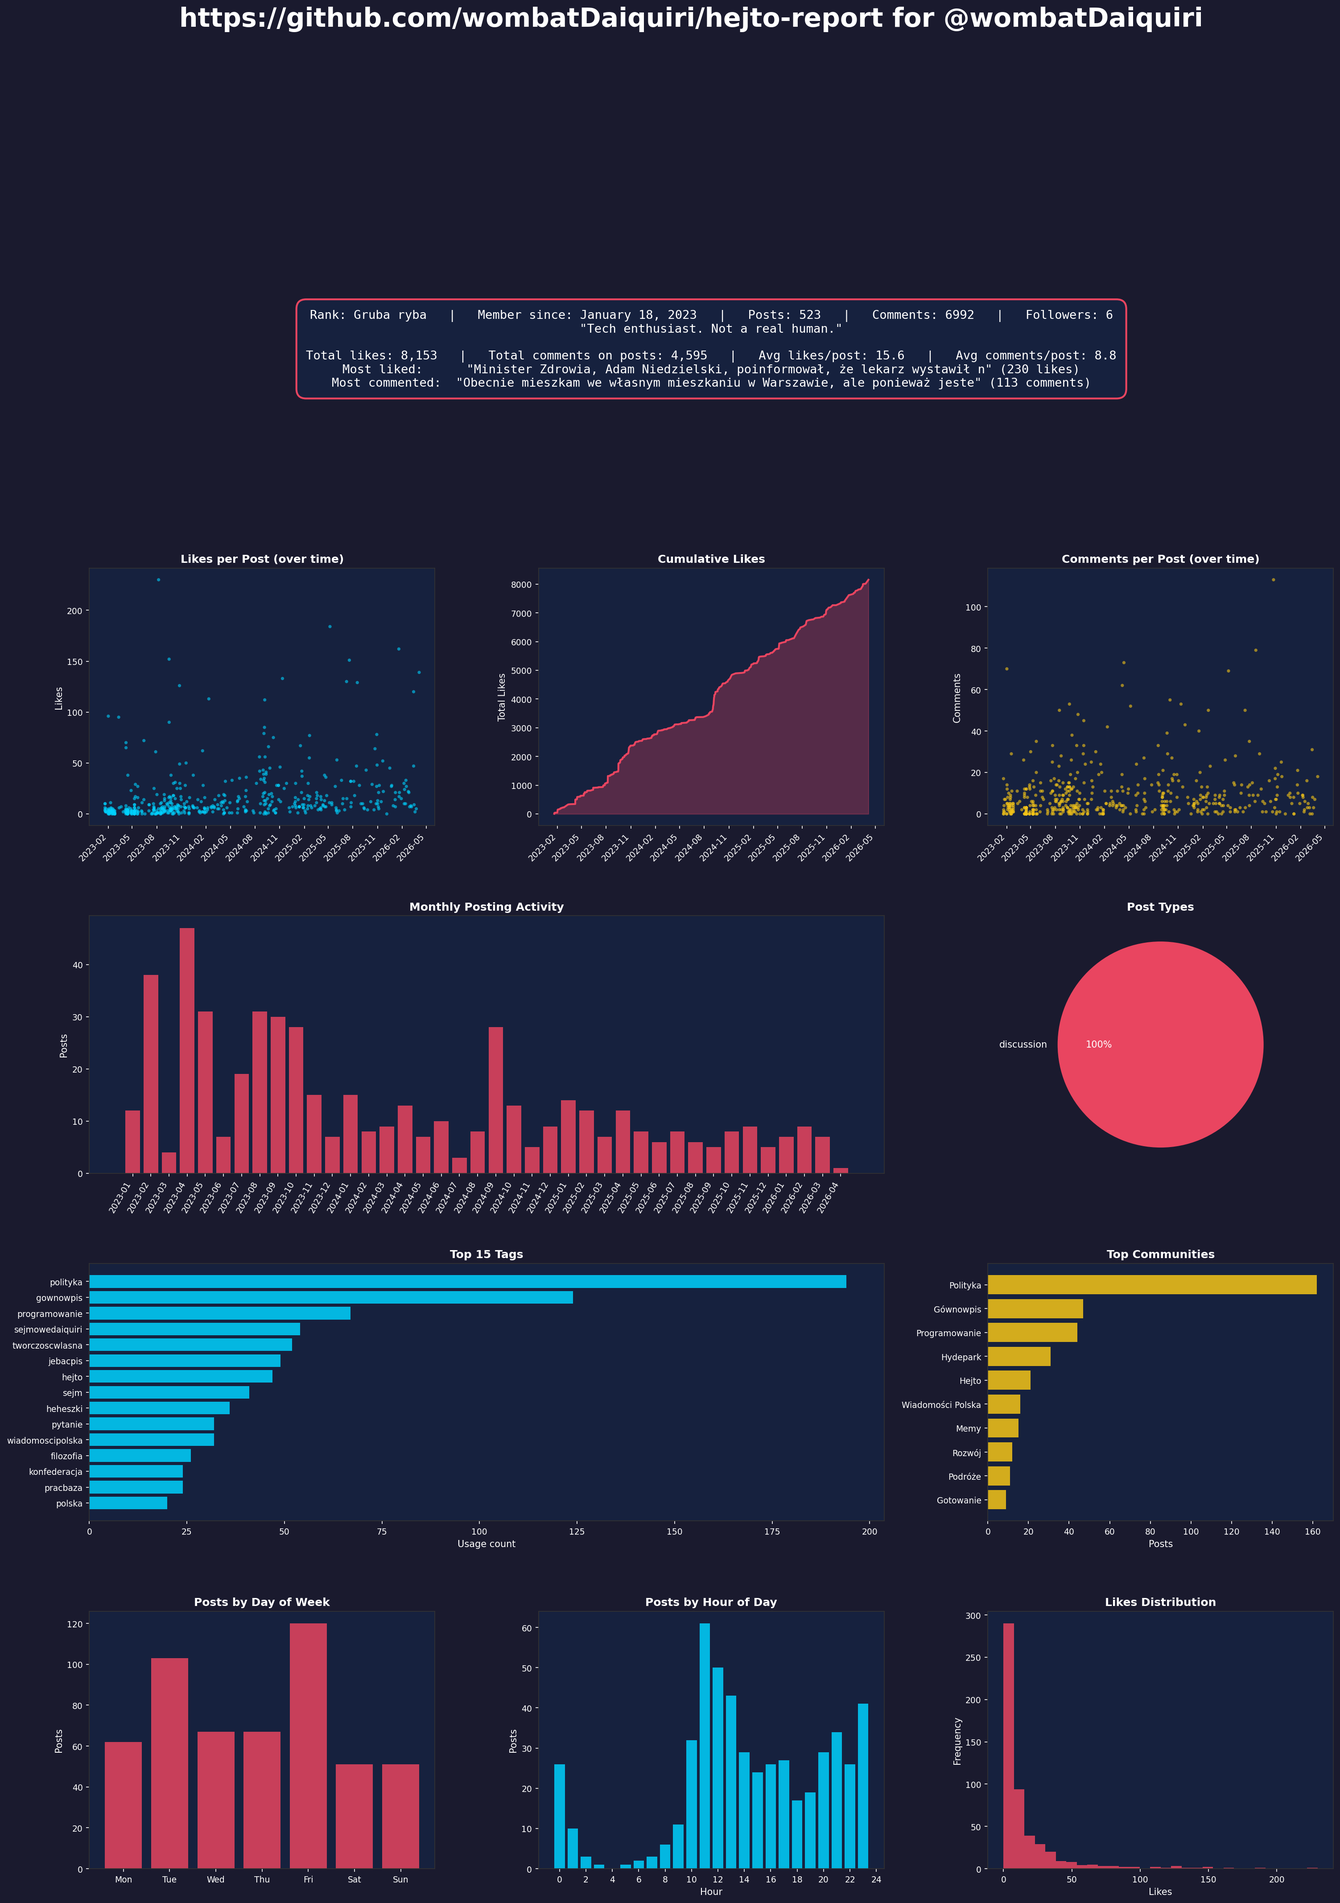
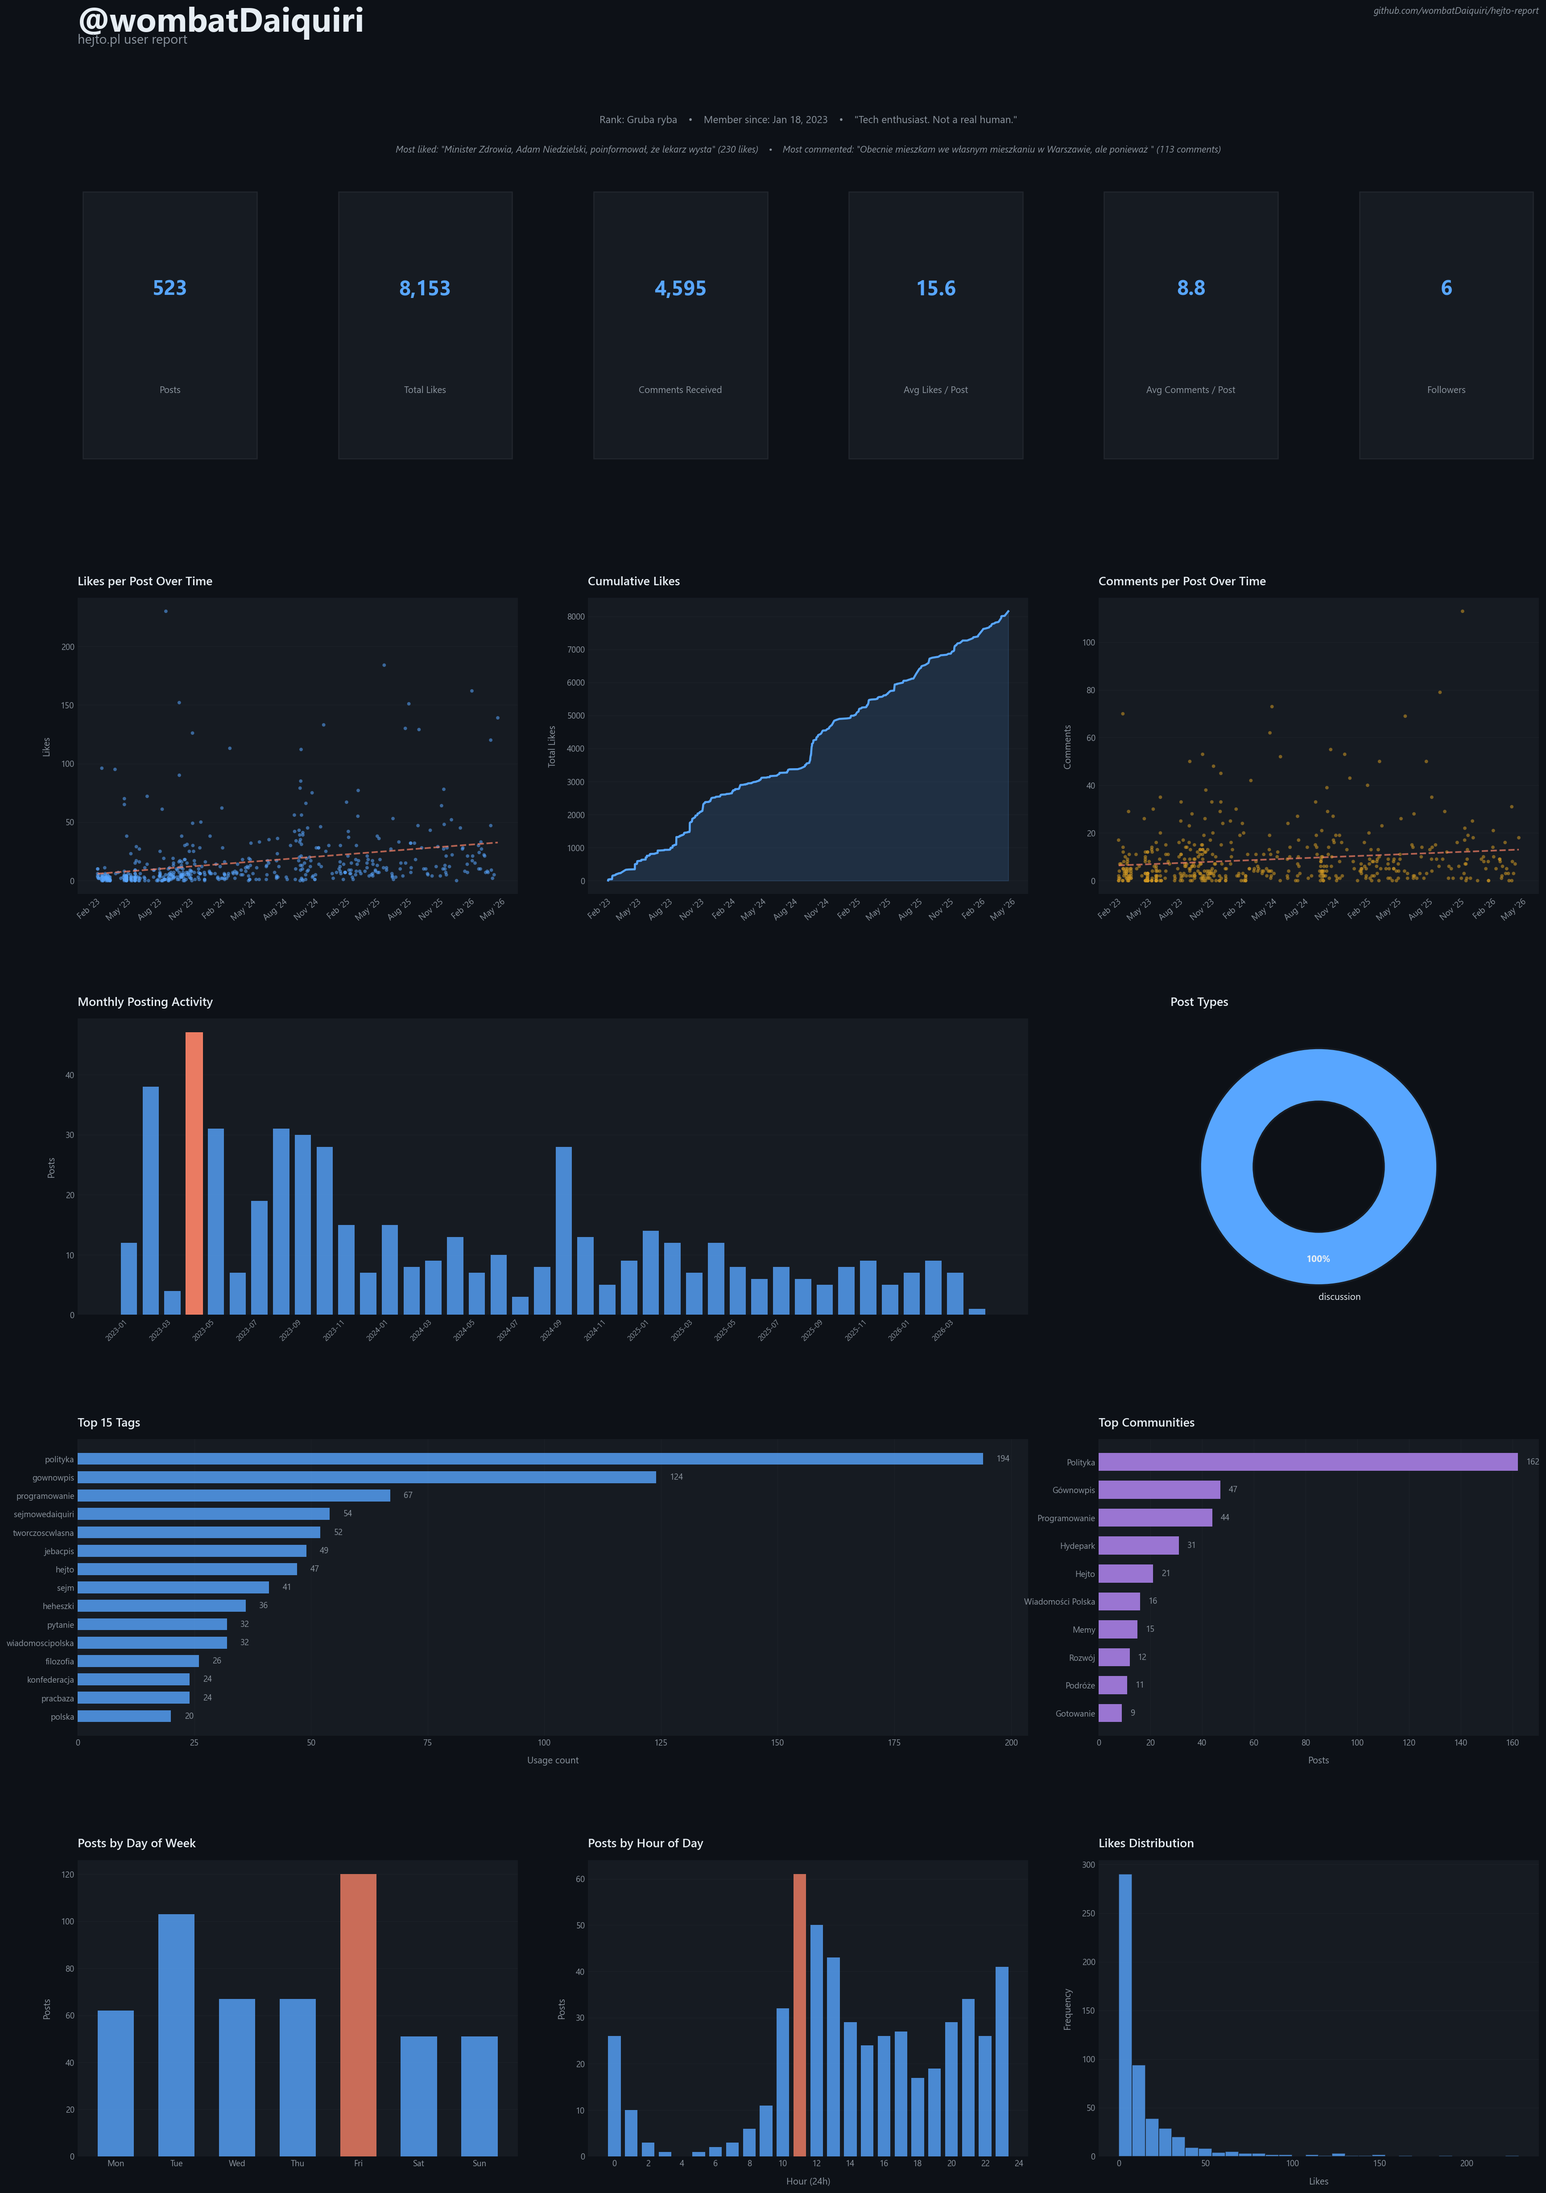
make the ui a bit tighter

diff --git a/report.py b/report.py
@@ -10,7 +10,10 @@ from datetime import datetime
 import matplotlib.pyplot as plt
 import matplotlib.dates as mdates
 import matplotlib.ticker as ticker
+import matplotlib.patheffects as pe
 from matplotlib.gridspec import GridSpec
+import matplotlib.font_manager as fm
+import numpy as np
 
 from hejto_api import HejtoAPI
 
@@ -133,149 +136,229 @@ def generate_report(username, data, output_file="report.png"):
 
     # --- PLOTTING ---
     plt.style.use("dark_background")
-    fig = plt.figure(figsize=(24, 32))
-    fig.patch.set_facecolor("#1a1a2e")
+    plt.rcParams.update({
+        "font.family": "sans-serif",
+        "font.sans-serif": ["Segoe UI", "Helvetica Neue", "Arial", "DejaVu Sans"],
+        "axes.titlepad": 14,
+        "axes.labelpad": 10,
+    })
 
-    gs = GridSpec(5, 3, figure=fig, hspace=0.35, wspace=0.3)
+    # Color palette — soft, modern dark theme
+    BG = "#0d1117"          # GitHub-dark inspired background
+    CARD = "#161b22"        # Slightly lighter card surfaces
+    GRID = "#21262d"        # Subtle grid / spine color
+    TEXT = "#e6edf3"        # Primary text (off-white)
+    TEXT_DIM = "#8b949e"    # Secondary / muted text
+    CYAN = "#58a6ff"        # Primary accent (links / highlights)
+    CORAL = "#f78166"       # Warm accent (bars, emphasis)
+    GREEN = "#3fb950"       # Success / positive
+    PURPLE = "#bc8cff"      # Tertiary accent
+    YELLOW = "#d29922"      # Attention / highlight
+    PINK = "#f778ba"        # Pie / extra accent
 
-    accent = "#e94560"
-    accent2 = "#0f3460"
-    accent3 = "#16213e"
-    highlight = "#f5c518"
-    bar_color = "#e94560"
-    line_color = "#00d2ff"
+    fig = plt.figure(figsize=(24, 34))
+    fig.patch.set_facecolor(BG)
 
-    # Title / header
-    fig.suptitle(
-        f"https://github.com/wombatDaiquiri/hejto-report for @{username}",
-        fontsize=28, fontweight="bold", color="white", y=0.98,
+    gs = GridSpec(
+        5, 6, figure=fig,
+        hspace=0.42, wspace=0.38,
+        top=0.90, bottom=0.03, left=0.06, right=0.97,
     )
 
-    # -- 0: Stats summary box --
-    ax_info = fig.add_subplot(gs[0, :])
-    ax_info.set_xlim(0, 10)
-    ax_info.set_ylim(0, 2)
-    ax_info.axis("off")
+    def style_ax(ax, title="", ylabel="", xlabel="", grid_axis="y"):
+        """Apply consistent modern styling to an axes."""
+        ax.set_facecolor(CARD)
+        ax.set_title(title, color=TEXT, fontsize=13, fontweight="600", loc="left")
+        if ylabel:
+            ax.set_ylabel(ylabel, color=TEXT_DIM, fontsize=10)
+        if xlabel:
+            ax.set_xlabel(xlabel, color=TEXT_DIM, fontsize=10)
+        ax.tick_params(colors=TEXT_DIM, labelsize=9, length=0)
+        for spine in ax.spines.values():
+            spine.set_visible(False)
+        if grid_axis:
+            ax.grid(axis=grid_axis, color=GRID, linewidth=0.6, alpha=0.7)
+            ax.set_axisbelow(True)
 
+    # ── Header ──────────────────────────────────────────────
+    fig.text(
+        0.06, 0.975, f"@{username}",
+        fontsize=36, fontweight="bold", color=TEXT,
+        va="top",
+    )
+    fig.text(
+        0.06, 0.963, "hejto.pl user report",
+        fontsize=14, color=TEXT_DIM, va="top",
+    )
+    fig.text(
+        0.97, 0.975,
+        "github.com/wombatDaiquiri/hejto-report",
+        fontsize=10, color=TEXT_DIM, va="top", ha="right",
+        style="italic",
+    )
+
+    # ── Row 0: KPI cards ───────────────────────────────────
     rank = profile.get("current_rank", "?")
-    member_since = parse_date(profile["created_at"]).strftime("%B %d, %Y")
+    member_since = parse_date(profile["created_at"]).strftime("%b %d, %Y")
     n_posts = profile.get("num_posts", len(posts))
-    n_comments = profile.get("num_comments", "?")
+    n_comments_profile = profile.get("num_comments", "?")
     n_followers = profile.get("num_follows", "?")
     desc = profile.get("description", "")
 
-    stats_text = (
-        f"Rank: {rank}   |   Member since: {member_since}   |   "
-        f"Posts: {n_posts}   |   Comments: {n_comments}   |   Followers: {n_followers}\n"
-        f'"{desc}"\n\n'
-        f"Total likes: {total_likes:,}   |   "
-        f"Total comments on posts: {total_comments:,}   |   "
-        f"Avg likes/post: {avg_likes:.1f}   |   Avg comments/post: {avg_comments:.1f}\n"
-        f"Most liked:      \"{max_likes_post['title'][:70]}\" ({max(likes)} likes)\n"
-        f"Most commented:  \"{max_comments_post['title'][:70]}\" ({max(comments)} comments)"
-    )
-    ax_info.text(
-        5, 1, stats_text,
-        ha="center", va="center", fontsize=13, color="white",
-        family="monospace",
-        bbox=dict(boxstyle="round,pad=0.8", facecolor=accent3, edgecolor=accent, linewidth=2),
+    kpi_data = [
+        ("Posts", f"{n_posts:,}" if isinstance(n_posts, int) else str(n_posts)),
+        ("Total Likes", f"{total_likes:,}"),
+        ("Comments Received", f"{total_comments:,}"),
+        ("Avg Likes / Post", f"{avg_likes:.1f}"),
+        ("Avg Comments / Post", f"{avg_comments:.1f}"),
+        ("Followers", f"{n_followers:,}" if isinstance(n_followers, int) else str(n_followers)),
+    ]
+
+    for i, (label, value) in enumerate(kpi_data):
+        ax = fig.add_subplot(gs[0, i])
+        ax.set_xlim(0, 1)
+        ax.set_ylim(0, 1)
+        ax.axis("off")
+        ax.set_facecolor(CARD)
+        # Card background
+        card = plt.Rectangle((0.03, 0.05), 0.94, 0.9, transform=ax.transAxes,
+                              facecolor=CARD, edgecolor=GRID, linewidth=1.2,
+                              clip_on=False, zorder=0)
+        card.set_path_effects([pe.withSimplePatchShadow(offset=(1, -1), shadow_rgbFace=BG, alpha=0.5)])
+        ax.add_patch(card)
+        ax.text(0.5, 0.62, value, transform=ax.transAxes,
+                ha="center", va="center", fontsize=22, fontweight="bold", color=CYAN)
+        ax.text(0.5, 0.28, label, transform=ax.transAxes,
+                ha="center", va="center", fontsize=10, color=TEXT_DIM)
+
+    # ── Profile info strip (figure-level text, no grid row) ──
+    info_parts = [
+        f"Rank: {rank}",
+        f"Member since: {member_since}",
+    ]
+    if desc:
+        info_parts.append(f'"{desc[:120]}"')
+    info_line = "    \u2022    ".join(info_parts)
+
+    record_line = (
+        f"Most liked: \"{max_likes_post['title'][:65]}\" ({max(likes)} likes)    \u2022    "
+        f"Most commented: \"{max_comments_post['title'][:65]}\" ({max(comments)} comments)"
     )
 
-    # -- 1: Likes per post over time (scatter) --
-    ax1 = fig.add_subplot(gs[1, 0])
-    ax1.scatter(sorted_dates, sorted_likes, s=12, alpha=0.6, c=line_color, edgecolors="none")
-    ax1.set_title("Likes per Post (over time)", color="white", fontsize=12, fontweight="bold")
-    ax1.set_ylabel("Likes")
-    ax1.xaxis.set_major_formatter(mdates.DateFormatter("%Y-%m"))
+    fig.text(0.515, 0.925, info_line, ha="center", va="center", fontsize=11, color=TEXT_DIM)
+    fig.text(0.515, 0.912, record_line, ha="center", va="center", fontsize=10, color=TEXT_DIM, style="italic")
+
+    # ── Row 1: Time series ─────────────────────────────────
+    # Likes scatter
+    ax1 = fig.add_subplot(gs[1, :2])
+    ax1.scatter(sorted_dates, sorted_likes, s=14, alpha=0.55, c=CYAN, edgecolors="none", zorder=3)
+    # Trend line
+    if len(sorted_dates) > 10:
+        x_num = mdates.date2num(sorted_dates)
+        z = np.polyfit(x_num, sorted_likes, 1)
+        p = np.poly1d(z)
+        ax1.plot(sorted_dates, p(x_num), color=CORAL, linewidth=1.8, alpha=0.7, linestyle="--", zorder=4)
+    style_ax(ax1, title="Likes per Post Over Time", ylabel="Likes")
+    ax1.xaxis.set_major_formatter(mdates.DateFormatter("%b '%y"))
     ax1.xaxis.set_major_locator(mdates.MonthLocator(interval=3))
-    plt.setp(ax1.xaxis.get_majorticklabels(), rotation=45, ha="right")
+    plt.setp(ax1.xaxis.get_majorticklabels(), rotation=40, ha="right")
 
-    # -- 2: Cumulative likes --
-    ax2 = fig.add_subplot(gs[1, 1])
-    ax2.fill_between(sorted_dates, cum_likes, alpha=0.3, color=accent)
-    ax2.plot(sorted_dates, cum_likes, color=accent, linewidth=2)
-    ax2.set_title("Cumulative Likes", color="white", fontsize=12, fontweight="bold")
-    ax2.set_ylabel("Total Likes")
-    ax2.xaxis.set_major_formatter(mdates.DateFormatter("%Y-%m"))
+    # Cumulative likes
+    ax2 = fig.add_subplot(gs[1, 2:4])
+    ax2.fill_between(sorted_dates, cum_likes, alpha=0.15, color=CYAN)
+    ax2.plot(sorted_dates, cum_likes, color=CYAN, linewidth=2.2)
+    style_ax(ax2, title="Cumulative Likes", ylabel="Total Likes")
+    ax2.xaxis.set_major_formatter(mdates.DateFormatter("%b '%y"))
     ax2.xaxis.set_major_locator(mdates.MonthLocator(interval=3))
-    plt.setp(ax2.xaxis.get_majorticklabels(), rotation=45, ha="right")
+    plt.setp(ax2.xaxis.get_majorticklabels(), rotation=40, ha="right")
 
-    # -- 3: Comments per post over time --
-    ax3 = fig.add_subplot(gs[1, 2])
-    ax3.scatter(sorted_dates, sorted_comments, s=12, alpha=0.6, c=highlight, edgecolors="none")
-    ax3.set_title("Comments per Post (over time)", color="white", fontsize=12, fontweight="bold")
-    ax3.set_ylabel("Comments")
-    ax3.xaxis.set_major_formatter(mdates.DateFormatter("%Y-%m"))
+    # Comments scatter
+    ax3 = fig.add_subplot(gs[1, 4:])
+    ax3.scatter(sorted_dates, sorted_comments, s=14, alpha=0.55, c=YELLOW, edgecolors="none", zorder=3)
+    if len(sorted_dates) > 10:
+        z2 = np.polyfit(x_num, sorted_comments, 1)
+        p2 = np.poly1d(z2)
+        ax3.plot(sorted_dates, p2(x_num), color=CORAL, linewidth=1.8, alpha=0.7, linestyle="--", zorder=4)
+    style_ax(ax3, title="Comments per Post Over Time", ylabel="Comments")
+    ax3.xaxis.set_major_formatter(mdates.DateFormatter("%b '%y"))
     ax3.xaxis.set_major_locator(mdates.MonthLocator(interval=3))
-    plt.setp(ax3.xaxis.get_majorticklabels(), rotation=45, ha="right")
+    plt.setp(ax3.xaxis.get_majorticklabels(), rotation=40, ha="right")
 
-    # -- 4: Monthly posting activity --
-    ax4 = fig.add_subplot(gs[2, :2])
+    # ── Row 3: Monthly activity + Post types ───────────────
+    ax4 = fig.add_subplot(gs[2, :4])
     x_pos = range(len(month_labels))
-    ax4.bar(x_pos, month_counts, color=bar_color, alpha=0.85, edgecolor="none")
-    ax4.set_title("Monthly Posting Activity", color="white", fontsize=12, fontweight="bold")
-    ax4.set_ylabel("Posts")
+    bars = ax4.bar(x_pos, month_counts, color=CYAN, alpha=0.80, edgecolor="none", width=0.75, zorder=3)
+    # Highlight peak month
+    if month_counts:
+        peak_idx = month_counts.index(max(month_counts))
+        bars[peak_idx].set_color(CORAL)
+        bars[peak_idx].set_alpha(0.95)
+    style_ax(ax4, title="Monthly Posting Activity", ylabel="Posts")
     ax4.set_xticks(x_pos)
-    ax4.set_xticklabels(month_labels, rotation=60, ha="right", fontsize=8)
+    # Show every Nth label to avoid crowding
+    n_months = len(month_labels)
+    step = max(1, n_months // 18)
+    ax4.set_xticklabels(
+        [m if i % step == 0 else "" for i, m in enumerate(month_labels)],
+        rotation=45, ha="right", fontsize=8,
+    )
 
-    # -- 5: Post type distribution --
-    ax5 = fig.add_subplot(gs[2, 2])
+    # Post type — donut chart
+    ax5 = fig.add_subplot(gs[2, 4:])
     type_labels = [t[0] for t in types_counter.most_common()]
     type_sizes = [t[1] for t in types_counter.most_common()]
-    colors_pie = [accent, line_color, highlight, "#53d769", "#ff6b6b"]
-    ax5.pie(
+    colors_pie = [CYAN, CORAL, YELLOW, GREEN, PINK, PURPLE]
+    wedges, texts, autotexts = ax5.pie(
         type_sizes, labels=type_labels, autopct="%1.0f%%",
         colors=colors_pie[:len(type_labels)],
-        textprops={"color": "white", "fontsize": 10},
+        textprops={"color": TEXT, "fontsize": 10},
+        pctdistance=0.78,
+        wedgeprops=dict(width=0.45, edgecolor=CARD, linewidth=2),
+        startangle=90,
     )
-    ax5.set_title("Post Types", color="white", fontsize=12, fontweight="bold")
+    for at in autotexts:
+        at.set_fontsize(10)
+        at.set_fontweight("bold")
+        at.set_color(TEXT)
+    ax5.set_facecolor(CARD)
+    ax5.set_title("Post Types", color=TEXT, fontsize=13, fontweight="600", loc="left", pad=14)
 
-    # -- 6: Top tags --
-    ax6 = fig.add_subplot(gs[3, :2])
+    # ── Row 4: Tags + Communities ──────────────────────────
+    ax6 = fig.add_subplot(gs[3, :4])
     tag_names = [t[0] for t in reversed(top_tags)]
-    tag_counts = [t[1] for t in reversed(top_tags)]
-    ax6.barh(tag_names, tag_counts, color=line_color, alpha=0.85)
-    ax6.set_title("Top 15 Tags", color="white", fontsize=12, fontweight="bold")
-    ax6.set_xlabel("Usage count")
+    tag_counts_list = [t[1] for t in reversed(top_tags)]
+    tag_bars = ax6.barh(tag_names, tag_counts_list, color=CYAN, alpha=0.80, height=0.65, zorder=3)
+    # Value labels at end of bars
+    for bar, val in zip(tag_bars, tag_counts_list):
+        ax6.text(bar.get_width() + max(tag_counts_list) * 0.015, bar.get_y() + bar.get_height() / 2,
+                 str(val), va="center", fontsize=9, color=TEXT_DIM)
+    style_ax(ax6, title="Top 15 Tags", xlabel="Usage count", grid_axis="x")
 
-    # -- 7: Top communities --
-    ax7 = fig.add_subplot(gs[3, 2])
+    ax7 = fig.add_subplot(gs[3, 4:])
     comm_names = [c[0] for c in reversed(top_communities)]
-    comm_counts = [c[1] for c in reversed(top_communities)]
-    ax7.barh(comm_names, comm_counts, color=highlight, alpha=0.85)
-    ax7.set_title("Top Communities", color="white", fontsize=12, fontweight="bold")
-    ax7.set_xlabel("Posts")
+    comm_counts_list = [c[1] for c in reversed(top_communities)]
+    comm_bars = ax7.barh(comm_names, comm_counts_list, color=PURPLE, alpha=0.80, height=0.65, zorder=3)
+    for bar, val in zip(comm_bars, comm_counts_list):
+        ax7.text(bar.get_width() + max(comm_counts_list) * 0.02, bar.get_y() + bar.get_height() / 2,
+                 str(val), va="center", fontsize=9, color=TEXT_DIM)
+    style_ax(ax7, title="Top Communities", xlabel="Posts", grid_axis="x")
 
-    # -- 8: Weekday activity --
-    ax8 = fig.add_subplot(gs[4, 0])
+    # ── Row 5: Weekday, Hourly, Likes histogram ───────────
+    ax8 = fig.add_subplot(gs[4, :2])
     short_days = ["Mon", "Tue", "Wed", "Thu", "Fri", "Sat", "Sun"]
-    ax8.bar(short_days, weekday_counts, color=accent, alpha=0.85)
-    ax8.set_title("Posts by Day of Week", color="white", fontsize=12, fontweight="bold")
-    ax8.set_ylabel("Posts")
+    day_colors = [CORAL if v == max(weekday_counts) else CYAN for v in weekday_counts]
+    ax8.bar(short_days, weekday_counts, color=day_colors, alpha=0.80, width=0.6, zorder=3)
+    style_ax(ax8, title="Posts by Day of Week", ylabel="Posts")
 
-    # -- 9: Hour distribution --
-    ax9 = fig.add_subplot(gs[4, 1])
-    ax9.bar(hours, hour_counts, color=line_color, alpha=0.85)
-    ax9.set_title("Posts by Hour of Day", color="white", fontsize=12, fontweight="bold")
-    ax9.set_xlabel("Hour")
-    ax9.set_ylabel("Posts")
+    ax9 = fig.add_subplot(gs[4, 2:4])
+    hour_colors = [CORAL if v == max(hour_counts) else CYAN for v in hour_counts]
+    ax9.bar(hours, hour_counts, color=hour_colors, alpha=0.80, width=0.75, zorder=3)
+    style_ax(ax9, title="Posts by Hour of Day", xlabel="Hour (24h)", ylabel="Posts")
     ax9.xaxis.set_major_locator(ticker.MultipleLocator(2))
 
-    # -- 10: Likes distribution histogram --
-    ax10 = fig.add_subplot(gs[4, 2])
-    ax10.hist(likes, bins=30, color=accent, alpha=0.85, edgecolor="none")
-    ax10.set_title("Likes Distribution", color="white", fontsize=12, fontweight="bold")
-    ax10.set_xlabel("Likes")
-    ax10.set_ylabel("Frequency")
-
-    # Style all axes
-    for ax in fig.get_axes():
-        ax.set_facecolor("#16213e")
-        ax.tick_params(colors="white", labelsize=9)
-        ax.xaxis.label.set_color("white")
-        ax.yaxis.label.set_color("white")
-        for spine in ax.spines.values():
-            spine.set_color("#333")
+    ax10 = fig.add_subplot(gs[4, 4:])
+    ax10.hist(likes, bins=30, color=CYAN, alpha=0.80, edgecolor=CARD, linewidth=0.8, zorder=3)
+    style_ax(ax10, title="Likes Distribution", xlabel="Likes", ylabel="Frequency")
 
     plt.savefig(output_file, dpi=150, bbox_inches="tight", facecolor=fig.get_facecolor())
     print(f"\nReport saved to {output_file}")
